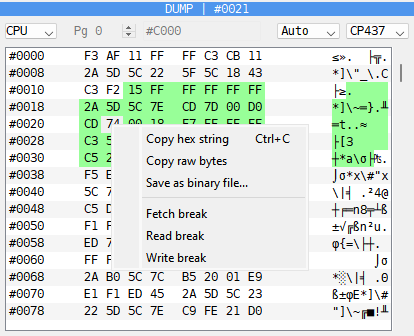
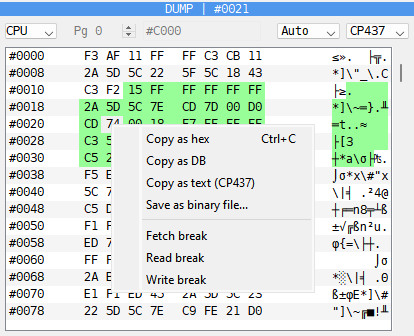
manual: the DUMP's copy items; labels offered in the operands of a command only; shot

diff --git a/docs/manual/debugger-memory.md b/docs/manual/debugger-memory.md
@@ -107,7 +107,7 @@ starts at 2000, where the board pages them in.
 
 ### Selecting and breakpoints
 
-```{index} Fetch break, Read break, Write break, Copy hex string, Copy raw bytes, Save as binary file, block; selecting in the dump
+```{index} Fetch break, Read break, Write break, Copy as hex, Copy as DB, Copy as text, Save as binary file, block; selecting in the dump
 ```
 
 Bytes are selected the way text is in an editor, in the bytes and in the text column alike:
@@ -131,10 +131,14 @@ selection of the view on show.
 A right-click opens a menu. A click inside the selection keeps it; elsewhere it moves the
 cursor there and clears the selection.
 
-- **Copy hex string** (Ctrl+C) - the selected bytes as text, `3E 01 D3 FE`, in hex whatever
+- **Copy as hex** (Ctrl+C) - the selected bytes in one line, `3E 01 D3 FE`, in hex whatever
   the Debugger shows. A hex editor pastes it as bytes.
-- **Copy raw bytes** - the bytes themselves, for a program that takes binary data from the
-  clipboard. A text editor gets nothing from it.
+- **Copy as DB** - the bytes as assembler source, a `DB` line for each row of the dump the
+  selection covers, the numbers written as the Debugger writes them: `DB #3E,#01`,
+  `DB 0FEh`, `DB 254`.
+- **Copy as text** - the bytes as the text column shows them, in the code page it names, as
+  **Copy as text (CP866)**; a control code is a dot. For a message in a program, to read it
+  or look it up.
 - **Save as binary file...** - writes the selected bytes to a file. Its name is made of the
   image in use, the page and the addresses, as `exolon_C000-C3FF.bin` or
   `exolon_RAM5_C000-C3FF.bin`; the folder is the one the last file went to, at first the

diff --git a/docs/manual/debugger-code.md b/docs/manual/debugger-code.md
@@ -290,7 +290,9 @@ The {icon}`label` Labels menu of the toolbar has:
 ```
 
 When you type a name in the address or command column, after the second letter a list of
-the labels that contain those letters drops down. Enter picks the label you typed in full,
+the labels that contain those letters drops down. In the command column it comes in the
+operands only: not for the command itself (`RET` is not taken for `RETURN`), nor for a
+register or a condition (`HL`, `NZ`); type on and it comes back. Enter picks the label you typed in full,
 else the first one that starts with your letters, else the first one; pick another with the
 arrow keys or the mouse. The same list appears in the
 [The Breakpoint Editor](debugger-breakpoints.md#the-breakpoint-editor).
